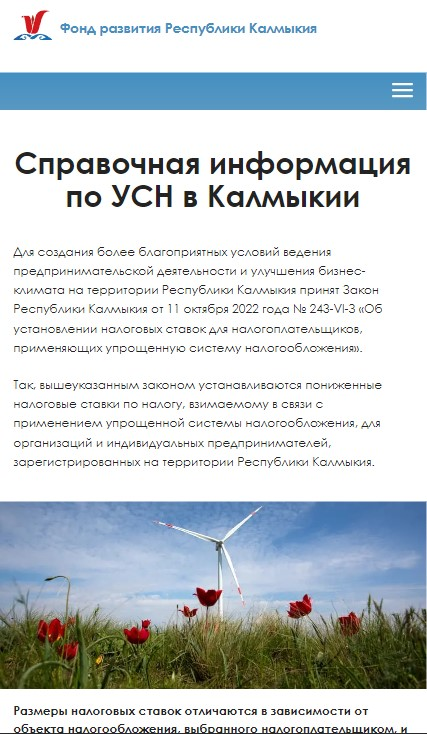
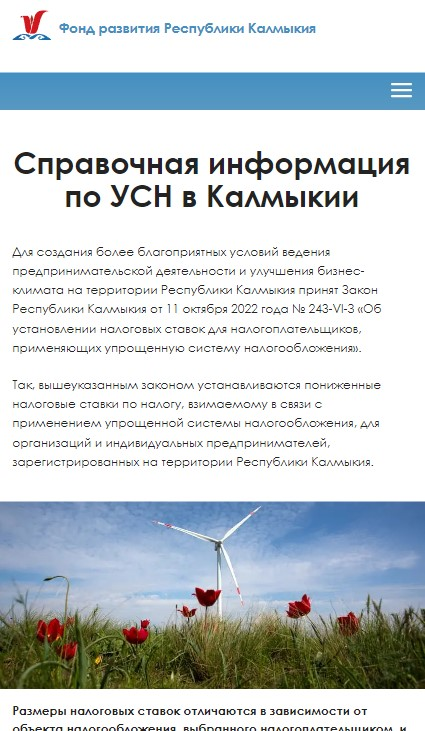
Добавит выравнивание скришнота по центру

diff --git a/README.md b/README.md
@@ -18,7 +18,9 @@
 
 ### Главная страница(мобильная версия)
 
-<img src="./images/screenshots/main-mobile.jpg" alt="Главная страница">
+<p align="center">
+    <img src="./images/screenshots/main-mobile.jpg" alt="Главная страница">
+</p>
 
 ### Страница контактов(версия для ПК)
 
